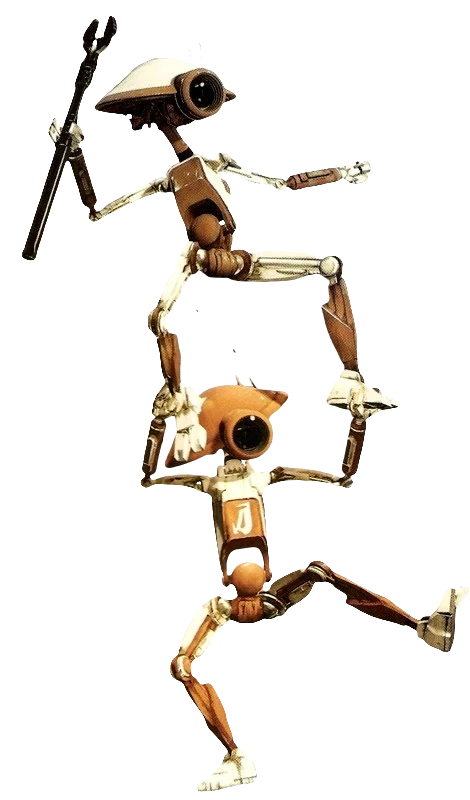
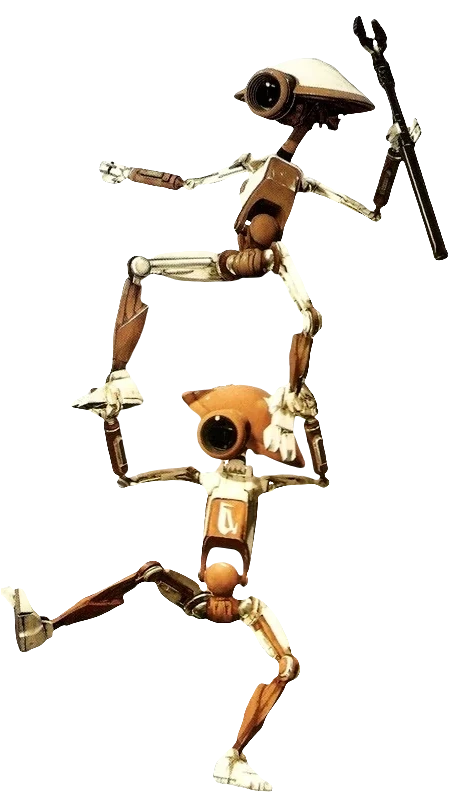
Oops, forgot mobile responsiveness xD

Changed region(s): [[0.0, 0.0, 1.0, 1.0]]

diff --git a/packages/frontend/src/components/members.tsx b/packages/frontend/src/components/members.tsx
@@ -4,10 +4,10 @@ import ClonestructionSign from '@/assets/clonestruction-works.png'
 export function Members(){
     return(
         <>
-            <div className='w-[100vw] h-[89vh] relative'>
-                <img className="absolute w-[22vw] -bottom-6 left-24" src={PitDroid1} alt="Pit Droid" />
-                <img className="absolute w-[25vw] -bottom-6 right-20" src={PitDroid2} alt="Pit Droid" />
-                <img className="absolute block w-[40vw] left-[30vw] top-10" src={ClonestructionSign} alt="Prace klonowe" />
+            <div className='w-[100vw] h-[89vh] relative overflow-x-clip'>
+                <img className="absolute h-3/4 lg:w-[22vw] -bottom-6 left-24" src={PitDroid1} alt="Pit Droid" />
+                <img className="absolute h-3/4 lg:w-[25vw] -bottom-6 right-20" src={PitDroid2} alt="Pit Droid" />
+                <img className="absolute w-[90vw] left-[5vw] lg:w-[40vw] lg:left-[30vw] -z-10 top-5 lg:top-10" src={ClonestructionSign} alt="Prace klonowe" />
             </div>
         </>   
     )

diff --git a/packages/frontend/src/components/about.tsx b/packages/frontend/src/components/about.tsx
@@ -4,10 +4,10 @@ import ClonestructionSign from '@/assets/clonestruction-works.png'
 export function About(){
     return(
         <>
-            <div className='w-[100vw] h-[89vh] relative'>
-                <img className="absolute w-[15vw] -bottom-6 left-36" src={PitDroid1} alt="Pit Droid" />
-                <img className="absolute w-[25vw] -bottom-6 right-20" src={PitDroid2} alt="Pit Droid" />
-                <img className="absolute block w-[40vw] left-[30vw] top-10" src={ClonestructionSign} alt="Prace klonowe" />
+            <div className='w-[100vw] h-[89vh] relative overflow-x-clip'>
+                <img className="absolute h-1/2 lg:w-[15vw] -bottom-6 lg:left-36" src={PitDroid1} alt="Pit Droid" />
+                <img className="absolute lg:w-[25vw] -bottom-6 -right-20 lg:right-16" src={PitDroid2} alt="Pit Droid" />
+                <img className="absolute lg:w-[40vw] lg:left-[30vw] -z-10  top-10" src={ClonestructionSign} alt="Prace klonowe" />
             </div>
         </>   
     )

diff --git a/packages/frontend/src/components/menu-toggle.tsx b/packages/frontend/src/components/menu-toggle.tsx
@@ -55,7 +55,7 @@ export function MenuToggle() {
                     </NavigationMenuItem>
                     <NavigationMenuItem className={navigationMenuTextStyle()}>
                         <SheetClose asChild>
-                            <NavLink to="/join" className={location.pathname=="/join" ? 'underline' : ''}>
+                            <NavLink to="https://discord.com/invite/WS56DPexDK" className={location.pathname=="/join" ? 'underline' : ''}>
                                 Dołącz do nas
                             </NavLink>
                         </SheetClose>

diff --git a/packages/frontend/src/components/nav-menu-list.tsx b/packages/frontend/src/components/nav-menu-list.tsx
@@ -30,7 +30,7 @@ export function NavMenuList(){
                 </NavLink>
             </NavigationMenuItem>
             <NavigationMenuItem className={navigationMenuTextStyle()}>
-                <NavLink to="/join"
+                <NavLink to="https://discord.com/invite/WS56DPexDK"
                 className={({isActive})=>{
                     return isActive ? 'underline' : '';
                 }}>
